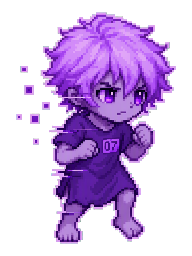
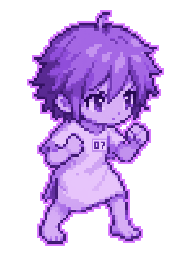
Lock battle art standards and unify ghost identity

diff --git a/tools/export_m42_runtime_assets.py b/tools/export_m42_runtime_assets.py
@@ -11,12 +11,11 @@ from __future__ import annotations
 import argparse
 from pathlib import Path
 
-from PIL import Image
+from PIL import Image, ImageChops, ImageFilter, ImageOps
 
 
 CHARACTER_EXPORTS = {
     "player_v2b_alpha.png": "characters/player_idle.png",
-    "ghost_v2b_alpha.png": "characters/ghost_idle.png",
     "enemy_researcher_v2b_alpha.png": "characters/guard_idle.png",
     "enemy_subject_v2b_alpha.png": "characters/enemy_subject_idle.png",
 }
@@ -64,7 +63,7 @@ def save_rgba(
         raise ValueError(f"{destination} does not have a transparent corner")
 
 
-def export_character(source: Path, destination: Path) -> None:
+def character_canvas(source: Path) -> Image.Image:
     image = Image.open(source).convert("RGBA")
     subject = image.crop(alpha_bbox(image))
     scale = min(
@@ -83,7 +82,38 @@ def export_character(source: Path, destination: Path) -> None:
     x = (canvas.width - subject.width) // 2
     y = CHARACTER_BASELINE_Y - subject.height
     canvas.alpha_composite(subject, (x, y))
-    save_rgba(canvas, destination)
+    return canvas
+
+
+def ghost_projection(image: Image.Image) -> Image.Image:
+    image = image.convert("RGBA")
+    alpha = image.getchannel("A")
+    grayscale = ImageOps.grayscale(image.convert("RGB"))
+    violet = ImageOps.colorize(
+        grayscale,
+        black="#25084f",
+        mid="#9450df",
+        white="#f3d5ff",
+    ).convert("RGBA")
+    violet.putalpha(alpha)
+
+    outline_radius = max(1, round(min(image.size) / 128))
+    expanded_alpha = alpha.filter(ImageFilter.MaxFilter(outline_radius * 2 + 1))
+    outline_alpha = ImageChops.subtract(expanded_alpha, alpha).point(lambda value: min(224, value))
+    outline = Image.new("RGBA", image.size, (211, 105, 255, 0))
+    outline.putalpha(outline_alpha)
+    result = Image.new("RGBA", image.size, (0, 0, 0, 0))
+    result.alpha_composite(outline)
+    result.alpha_composite(violet)
+    return result
+
+
+def export_character(source: Path, destination: Path) -> None:
+    save_rgba(character_canvas(source), destination)
+
+
+def export_ghost(source: Path, destination: Path) -> None:
+    save_rgba(ghost_projection(character_canvas(source)), destination)
 
 
 def export_floor(source: Path, destination: Path) -> None:
@@ -142,6 +172,7 @@ def main() -> None:
     parser = argparse.ArgumentParser()
     parser.add_argument("--alpha-dir", type=Path, required=True)
     parser.add_argument("--environment-dir", type=Path)
+    parser.add_argument("--derived-source-dir", type=Path)
     parser.add_argument("--output-root", type=Path, required=True)
     args = parser.parse_args()
 
@@ -149,6 +180,17 @@ def main() -> None:
         destination = args.output_root / destination_name
         export_character(args.alpha_dir / source_name, destination)
         print(f"EXPORTED {destination}")
+
+    player_source = args.alpha_dir / "player_v2b_alpha.png"
+    ghost_destination = args.output_root / "characters/ghost_idle.png"
+    export_ghost(player_source, ghost_destination)
+    print(f"EXPORTED {ghost_destination} FROM {player_source.name}")
+
+    if args.derived_source_dir is not None:
+        derived_ghost = args.derived_source_dir / "ghost_v2c_alpha.png"
+        player_image = Image.open(player_source).convert("RGBA")
+        save_rgba(ghost_projection(player_image), derived_ghost)
+        print(f"EXPORTED {derived_ghost} FROM {player_source.name}")
 
     void_destination = args.output_root / "environment/time_void_tile.png"
     export_contained(

diff --git a/时间循环玩法/项目记忆_新对话接续.md b/时间循环玩法/项目记忆_新对话接续.md
@@ -20,10 +20,11 @@
 
 1. `项目记忆_新对话接续.md`：新对话快速恢复上下文的单文件入口。
 2. `项目TODO与设计决策.md`：D-001 至 D-028 的详细规则、理由、边界和 TODO，是最详细的决策记录。
-3. `正式版项目架构v1_Godot.md`：Godot 正式工程的分层、数据流、目录、素材接口、测试和协作基线。
-4. `设计框架v2_时间循环.md`：当前整体游戏设计框架。
-5. `demo/策划案_Demo实现规格.md`：当前网页 Demo 的实现规格、六关配置和部署状态。
-6. `demo/试玩测试记录模板.md`：后续内部试玩与外部无讲解测试的统一记录格式。
+3. `战场美术素材规范.md`：高清密度、同角色变体、导出采样、Godot 缓存与实机验收的强制标准。
+4. `正式版项目架构v1_Godot.md`：Godot 正式工程的分层、数据流、目录、素材接口、测试和协作基线。
+5. `设计框架v2_时间循环.md`：当前整体游戏设计框架。
+6. `demo/策划案_Demo实现规格.md`：当前网页 Demo 的实现规格、六关配置和部署状态。
+7. `demo/试玩测试记录模板.md`：后续内部试玩与外部无讲解测试的统一记录格式。
 
 如文档出现冲突，以日期较新的明确设计决策为准，并及时修正文档。
 
@@ -107,6 +108,9 @@
 - 现已将角色导出改为最近邻硬采样，运行时严格保持 3:4 原始比例并对齐整数像素；脚底环改为格内扁椭圆，环中心与角色脚底锚点分离，最底行不再越过棋盘边框。
 - 用户进一步确认残余模糊属于低分辨率导出造成的信息损失；D-028 将角色、地砖/空洞、设备分别提升至 192×256、256×256、256×320，屏幕占格和规则层均不改变。
 - 新增游戏实际纹理尺寸回归，首次运行发现导入缓存仍加载旧低清纹理；强制重新导入后 75 项界面测试通过，583×1262、3424×1262 与 390×844 真实 OpenGL 画面均已使用高清密度素材。
+- 用户确认高清密度版清晰度明显改善；新增《战场美术素材规范》，正式锁定纹理密度与占格尺寸分离、同身份变体母版派生、Godot 实载纹理检查及复杂帧验收流程。
+- 旧分身原画与本体的发型、脸、比例和姿势不一致；现已废止独立分身人物图作为运行输入，`ghost_v2c_alpha.png` 与 `ghost_idle.png` 固定由本体透明母版逐像素派生，只保留紫色投影、亮紫描边和运行时半透明差异。
+- 新分身已通过 583×1262 T2 本体/分身同屏检查；轮廓、姿势、病号服和 `07` 与本体一致，180 项核心测试、75 项界面测试继续通过。
 - 修正后 360×800、390×844、430×932 第 1/6 关和 390×844 T2 三阵营同屏画面均通过复查；角色更瘦高、边缘清晰且与地砖/设备的像素语言一致。
 - 当前待用户最终验收第二版角色身份、尺寸、阵营辨识度与首批 UI 皮肤；验收前不扩展四方向和战斗动画。
 - H5 六关版本继续冻结为玩法参考和结果对照，不再扩展第二套正式内核。
@@ -472,10 +476,10 @@ Boss 例外：
 
 M4.2B v2 静态素材已经全部接入。角色比例、脚底扁椭圆、全局最近邻和 2D 像素对齐均已修正；用户随后确认残余模糊并非误操作或窗口插值，而是 1024 级源图在运行时导出时被过度压缩为 48×64/64×64，角色和环境都丢失了大量信息。
 
-D-028 已将正式战场锁定为高清密度像素素材：角色 192×256，地砖/空洞 256×256，设备 256×320；屏幕占格尺寸、脚底锚点、点击热区和规则碰撞全部不变。Godot 资源尺寸回归曾准确抓到旧导入缓存，强制重新导入后游戏已实际加载新纹理。583×1262、3424×1262 和 390×844 均已重新渲染，180 项核心测试与 75 项界面测试通过。下一次先：
+D-028 与《战场美术素材规范》已将正式战场锁定为高清密度像素素材：角色 192×256，地砖/空洞 256×256，设备 256×320；屏幕占格尺寸、脚底锚点、点击热区和规则碰撞全部不变。分身现从本体母版逐像素派生，不再使用独立人物图。Godot 已实际加载新纹理，180 项核心测试与 75 项界面测试通过。下一次先：
 
-1. 让用户完全停止并重新启动游戏窗口，在 583×1262 与 3424×1262 实机复验高清密度角色和环境。
-2. 继续评审囚犯本体、紫色分身、时间错位研究员、256×256 时间空洞与整套 HUD 的身份和阵营辨识度。
+1. 让用户完全停止并重新启动游戏窗口，复验新的同轮廓紫色分身以及高清密度角色和环境。
+2. 继续评审时间错位研究员、256×256 时间空洞与整套 HUD 的身份和阵营辨识度。
 3. 视觉通过后关闭 M4.2B，进入移动、攻击、受击、死亡、固化动画状态机。
 4. 为 `units_collided` 事件制作双方震动、碰撞闪光和双伤害数字反馈。
 5. 继续保持 180 项核心测试与 75 项界面测试通过；旧图片网关凭据在服务端完成撤销前不要恢复或复制历史脚本中的明文值。

diff --git a/时间循环玩法/项目TODO与设计决策.md b/时间循环玩法/项目TODO与设计决策.md
@@ -575,6 +575,7 @@
 - 结论：
   - 第一章本体明确为刚从实验室逃脱的实验对象：青色短发、白色病号服/囚服、赤足或简易拖鞋，不携带枪械、护甲或成熟战术装备。
   - 分身必须沿用本体的轮廓、服装和编号，以紫色投影、像素错位和碎片表现时间残影，不设计成独立职业或另一名角色。
+  - 分身、幻影和后续同身份状态不再使用独立人物原画；导出程序必须从对应本体母版逐像素派生，只改变投影配色、描边、透明度和少量轮廓外残影。
   - 第一章普通敌人的基础语言从“制式守卫”转为“被时间崩坏扭曲的实验室人员”，使用黑白实验室服装、红橙裂隙和错位残影与本体区分。
   - 当前六关只有一种敌人规则模板，因此本轮先用“时间错位研究员”替换普通敌人显示；“失败实验体”保留为后续独立敌人类型，不在没有规则差异时混用两套外观。
   - 战术运行时统一采用 192×256 高清密度底部居中画布和 D-026 越界限制；屏幕占格尺寸不变，第二版源图只在缩放后身份、阵营和所属格均可读时替换第一版候选。
@@ -594,6 +595,7 @@
   - 高密度贴图只增加内部信息量，不改变角色约 1.18 格画布高、设备约 1.22 格高、脚底锚点、逻辑占格、点击热区或 D-026 越界上限。
   - Godot 必须在导出后完成资源重新导入；界面回归同时断言 PNG 对应的实际 `Texture2D` 尺寸，避免磁盘文件已更新但导入缓存仍加载旧低清纹理。
   - 继续使用全局最近邻与 2D 像素对齐，保留自由分数窗口缩放；若未来单项素材出现缩小采样锯齿，再针对该素材评估过滤方式，不整体退回低清基准。
+  - 完整执行标准、尺寸表、母版派生规则、缓存检查与验收清单统一维护在《战场美术素材规范》；后续新增动画帧必须遵守同一规范。
 - 设计目的：
   - 保留 1024 级源图中的五官、衣褶、材质磨损和设备面板细节，使角色与环境达到同一高清密度。
   - 把“视觉尺寸”和“纹理分辨率”分离：战术可读性仍由屏幕占格控制，清晰度由足够高的运行时贴图保证。
@@ -730,6 +732,7 @@
   - [x] 按 D-027 将角色改为囚犯本体、同轮廓紫色分身和红橙时间错位研究员；失败实验体只保留为未来独立敌人候选。
   - [x] 接入 256×256 时间空洞、顶部 HUD、情境提示、四按钮、行动序列、HP 条和真实 8×8 棋盘碎裂边框。
   - [x] 按 D-028 将角色、地砖、空洞和障碍升级为 4 倍高清密度，并验证 Godot 实际加载到新尺寸；180 项核心测试与 75 项界面测试通过。
+  - [x] 建立《战场美术素材规范》，并将紫色分身改为从本体母版自动派生，消除独立生成造成的发型、脸、姿势和比例漂移。
   - [ ] 用户最终评审 v2 角色身份、尺寸、脚底所属格、阵营辨识度和首批 UI 皮肤；通过后再扩展四方向与动画。
 - [ ] M4.2C 接入移动、攻击、受击、死亡、固化动画状态机，继续只由 `BattleEvent` 驱动。
 - [ ] M4.2C 为 `units_collided` 接入双方震动、碰撞闪光和双 `-1` 伤害数字反馈。
@@ -873,3 +876,6 @@
 - 确认 D-028：角色升级为 192×256，地砖/空洞升级为 256×256，单格设备升级为 256×320；屏幕占格尺寸、锚点、逻辑碰撞和越界限制全部不变。
 - 首轮高清导出后，新增尺寸断言发现 Godot 仍加载旧导入缓存；通过编辑器资源扫描强制重新导入后，游戏实际 `Texture2D` 尺寸与磁盘 PNG 一致，避免了“文件已换但游戏仍显示旧图”的假复核。
 - 高清密度版已重新通过 583×1262、3424×1262 和 390×844 真实 OpenGL 画面检查；180 项核心测试、75 项界面测试通过，当前等待用户实机清晰度验收。
+- 用户确认高清密度版清晰度明显改善，并要求把规则固化为项目规范；新增《战场美术素材规范》，覆盖纹理密度、视觉尺寸分离、同身份变体派生、Godot 重导入和六项验收清单。
+- 对比发现旧 `ghost_v2b_alpha.png` 与本体在发型、脸、身体比例和姿势上均不一致；内置 imagegen 编辑用于确认紫色投影方向，最终 `ghost_v2c_alpha.png` 和 `ghost_idle.png` 由本体透明母版逐像素派生，确保轮廓、姿势、服装和 `07` 完全一致。
+- Godot 已重新导入新分身；583×1262 T2 本体/分身同屏画面通过，180 项核心测试与 75 项界面测试继续通过。

diff --git a/时间循环玩法/战场美术素材规范.md b/时间循环玩法/战场美术素材规范.md
@@ -1,0 +1,57 @@
+# 战场美术素材规范
+
+> 状态：2026-08-06 起生效。适用于 Godot 正式战场中的角色、分身、敌人、地砖、障碍、危险地形与后续动画帧。
+
+## 1. 目标
+
+- 本项目采用手机/PAD 上的高清像素风：像素风描述造型、色块、轮廓和动画语言，不等于使用复古低分辨率精灵。
+- 纹理分辨率与屏幕占格尺寸必须分离。提高贴图密度不能改变逻辑占格、脚底锚点、点击热区或战术越界上限。
+- 禁止把 1024 级源图先压成几十个有效像素，再依赖引擎放大；最近邻只能保护已有像素，不能恢复导出时丢失的五官、衣褶和材质细节。
+
+## 2. 当前高清密度基准
+
+| 素材 | 运行时画布 | 屏幕逻辑尺寸 | 锚点/占格 |
+|---|---:|---|---|
+| 本体、分身、普通敌人 | 192×256 | 约 1.18 格画布高 | 底部居中，逻辑占 1 格 |
+| 普通地砖、时间空洞 | 256×256 | 1 格 | 不越界 |
+| 单格服务器、立柱 | 256×320 | 约 1.22 格高 | 底部居中，逻辑占 1 格 |
+
+- 上述尺寸是当前最低运行时密度，不是源图生成尺寸；源图应保留 1024 级或更高的母版。
+- 角色保持 3:4 画布比例。不得分别指定宽高拉伸，不得为了“塞进格子”破坏人物比例。
+- UI 九宫格按切片用途单独定尺寸；不得照搬角色/地砖尺寸，但同样需要在实际显示尺寸检查边框和图标清晰度。
+
+## 3. 同一角色的变体规则
+
+- 本体是角色身份母版。分身、幻影、受控态、扰动态等身份未改变的变体，必须由同一张母版或同一动画帧派生。
+- 分身不得作为独立人物重新生成。发型轮廓、脸型、眼睛、身体比例、服装剪影、编号、姿势、朝向和脚底位置必须与本体一致。
+- 分身只允许改变：紫色/丁香色投影色相、亮紫描边、透明度、少量轮廓外像素残影和短暂碎片特效。
+- 当前 `ghost_idle.png` 由导出程序从本体透明图逐像素派生，不再读取旧的独立 `ghost_v2b_alpha.png`。后续每个动画帧沿用同一规则。
+- 若确实需要改变姿势或动作，先制作/确认本体动作帧，再从该帧派生分身，禁止反向独立补画。
+
+## 4. 导出与采样
+
+- 角色源图先移除绿幕得到 RGBA，再裁切可见边界、等比缩放并放入 192×256 底部锚定画布。
+- 角色像素簇使用最近邻缩放；地砖与设备从超高分辨率母版降到高清运行时尺寸时可使用高质量缩小，但进入 Godot 后保持统一像素语言。
+- Godot 全局画布使用最近邻过滤并开启 2D 变换/顶点像素对齐；窗口允许分数缩放以兼容不同设备比例，不强制整数缩放黑边。
+- 导出脚本必须可重复执行，禁止只手工替换运行图却不更新导出规则和源素材说明。
+
+## 5. Godot 导入缓存
+
+- PNG 更新后必须让 Godot 完成资源重新导入；只看到磁盘文件尺寸变化不代表游戏已经加载新纹理。
+- 自动验证必须读取游戏中的 `Texture2D.get_size()`，同时检查角色 192×256、地砖/空洞 256×256、设备 256×320。
+- 若磁盘 PNG 与游戏纹理尺寸不一致，先运行编辑器资源扫描并重新导入，再进行截图评审；不得把旧缓存截图当成新素材结果。
+
+## 6. 每项素材的验收清单
+
+1. **源图**：母版尺寸足够，透明边缘干净，无绿幕残留。
+2. **身份**：直接打开运行图仍能辨认五官、发型、服装、编号和阵营；身份变体与母版轮廓一致。
+3. **比例**：人物不拉伸，脚底锚点正确，环境设备仍符合 D-026 越界上限。
+4. **实载**：Godot 实际纹理尺寸与规范一致，不使用旧导入缓存。
+5. **复杂帧**：在 390×844、583×1262、3424×1262 以及多单位/空洞/障碍同屏画面中检查清晰度、遮挡和所属格。
+6. **回归**：核心规则与界面测试全部通过后才能提交。
+
+## 7. 变更原则
+
+- 新素材如需低于本规范的运行时密度，必须先用真实设备画面证明不会丢失关键信息，并在设计决策文档记录例外理由。
+- 新增角色动画时，先锁定本体帧序列，再自动派生分身序列；不得为每个阵营分别生成动作导致骨架和节奏漂移。
+- 本规范与 D-026（美术越界）和 D-028（高清密度）共同生效：D-026 管视觉占格，D-028 与本文管纹理信息量和导入验证。

diff --git a/game/assets/README.md b/game/assets/README.md
@@ -2,21 +2,23 @@
 
 Only Godot runtime-ready art, UI, audio, and font exports belong here. Editable source files stay in the repository-level `source_assets` directory once that pipeline is needed.
 
+详细密度、同角色变体、导入缓存和验收规则见 `时间循环玩法/战场美术素材规范.md`。
+
 ## Environment
 
-- `environment/lab_floor_tile.png`：M4.2A 明亮实验室单格地砖，64×64。
-- `environment/lab_obstacle_server.png`：M4.2A 单格服务器机柜，64×80 战术压缩版画布、底部锚定。
-- `environment/lab_obstacle_pillar.png`：M4.2A 单格实验室立柱，64×80 战术压缩版画布、底部锚定。
-- `environment/time_void_tile.png`：M4.2B 时间空洞单格素材，64×64，不越界；紫色旋涡完整限制在逻辑格内。
+- `environment/lab_floor_tile.png`：M4.2A 明亮实验室单格地砖，256×256 高清密度。
+- `environment/lab_obstacle_server.png`：M4.2A 单格服务器机柜，256×320 高清密度战术压缩版画布、底部锚定。
+- `environment/lab_obstacle_pillar.png`：M4.2A 单格实验室立柱，256×320 高清密度战术压缩版画布、底部锚定。
+- `environment/time_void_tile.png`：M4.2B 时间空洞单格素材，256×256，不越界；紫色旋涡完整限制在逻辑格内。
 - 对应透明源图、候选规格和 ImageGen 提示词位于 `source_assets/environment/m42a/`。
 
 ## Characters
 
-- `characters/player_idle.png`：M4.2B v2 本体静态战斗基准；青发、白色实验对象囚服、无武装，48×64、底部居中锚定。
-- `characters/ghost_idle.png`：M4.2B v2 分身静态战斗基准，沿用本体轮廓并使用紫色时间投影语言，48×64。
-- `characters/guard_idle.png`：当前六关普通敌人的运行时显示；采用红橙裂隙的时间错位研究员，48×64。
-- `characters/enemy_subject_idle.png`：失败实验体候选，48×64；保留给未来独立敌人类型，当前六关不加载。
-- 三类角色在棋盘内按约 1.18 格画布高绘制，始终保持 48:64 原始宽高比，不允许用独立宽/高常量拉伸；所属格由格内扁椭圆脚底环和底部 HP 条辅助辨认。
+- `characters/player_idle.png`：M4.2B v2 本体静态战斗基准；青发、白色实验对象囚服、无武装，192×256、底部居中锚定。
+- `characters/ghost_idle.png`：从本体透明母版逐像素派生的紫色时间投影，192×256；禁止使用独立人物图重新生成。
+- `characters/guard_idle.png`：当前六关普通敌人的运行时显示；采用红橙裂隙的时间错位研究员，192×256。
+- `characters/enemy_subject_idle.png`：失败实验体候选，192×256；保留给未来独立敌人类型，当前六关不加载。
+- 三类角色在棋盘内按约 1.18 格画布高绘制，始终保持 3:4 原始宽高比，不允许用独立宽/高常量拉伸；所属格由格内扁椭圆脚底环和底部 HP 条辅助辨认。
 - 角色从高分辨率像素源缩小时使用最近邻硬采样；UI 和环境仍可按各自用途使用平滑缩放。运行时继续使用最近邻过滤并将角色绘制矩形对齐到整数像素。
 - 第一版候选位于 `source_assets/characters/m42b/`；当前 v2 绿幕源图和提示词位于 `source_assets/characters/m42b_v2/`。
 
@@ -31,5 +33,5 @@ Only Godot runtime-ready art, UI, audio, and font exports belong here. Editable 
 
 ## Export pipeline
 
-- 绿幕源图先使用已安装 imagegen 技能的 `remove_chroma_key.py` 转为 RGBA，再运行 `tools/export_m42_runtime_assets.py` 统一裁切、缩放、底部锚定并验证透明通道；角色导出固定使用最近邻硬采样。
+- 绿幕源图先使用已安装 imagegen 技能的 `remove_chroma_key.py` 转为 RGBA，再运行 `tools/export_m42_runtime_assets.py` 统一裁切、缩放、底部锚定并验证透明通道；角色导出固定使用最近邻硬采样，分身固定由本体透明图派生。
 - 生成脚本只从环境变量 `TIMELOOP_IMAGE_GATEWAY_TOKEN` 读取图片网关凭据；不得把密钥写回仓库。

diff --git a/source_assets/characters/m42b_v2/README.md b/source_assets/characters/m42b_v2/README.md
@@ -3,7 +3,7 @@
 ## Locked direction
 
 - Player: escaped laboratory test subject, cyan hair, white institutional gown, unarmed.
-- Ghost: the same silhouette and subject number in a violet time-projection palette.
+- Ghost: a deterministic violet projection derived from the player master, with the exact same silhouette, pose, face, clothing, and subject number.
 - Current common enemy: time-distorted researcher with red-orange temporal cracks.
 - Future enemy candidate: failed test subject; exported for evaluation but not used by the current single-enemy ruleset.
 
@@ -12,7 +12,13 @@ The `*_v2b_alpha.png` files are the selected compact/chibi sources. Despite the 
 ## Runtime export
 
 1. Remove the green background with the installed imagegen `remove_chroma_key.py` helper using border auto-key, soft matte, and despill.
-2. Run `tools/export_m42_runtime_assets.py --alpha-dir <rgba-dir> --environment-dir source_assets/environment/m42a --output-root game/assets`. Characters export to a 192×256 high-density canvas with nearest-neighbor sampling to preserve the source pixel clusters.
+2. Run `tools/export_m42_runtime_assets.py --alpha-dir <rgba-dir> --environment-dir source_assets/environment/m42a --derived-source-dir source_assets/characters/m42b_v2 --output-root game/assets`. Characters export to a 192×256 high-density canvas with nearest-neighbor sampling. `ghost_idle.png` and `ghost_v2c_alpha.png` are derived from the player master; the old independently generated `ghost_v2b_alpha.png` is historical input only.
 3. Validate that runtime drawing preserves the 3:4 source aspect ratio, snaps the sprite rectangle to integer pixels, and remains readable in 360×800, 390×844, 430×932, and the user's actual window sizes.
 
 The generation script reads `TIMELOOP_IMAGE_GATEWAY_TOKEN` from the environment. Never store the token in this directory or in a local `.env` tracked by Git.
+
+## Ghost v2c identity lock
+
+- Built-in image editing was used to establish the violet/lilac projection palette with an identity-preserve prompt: keep the exact face, hair spikes, body proportions, gown, `07`, pose, direction, framing, and pixel clusters; change only palette, emissive outline, and minimal temporal fragments on a flat `#00ff00` background.
+- The selected production asset does not use a separately redrawn body. `tools/export_m42_runtime_assets.py` derives both `ghost_v2c_alpha.png` and `ghost_idle.png` from the chroma-removed player master, guaranteeing identical geometry for this frame.
+- Future animation ghosts must be derived from each matching player frame after that player frame is approved.
